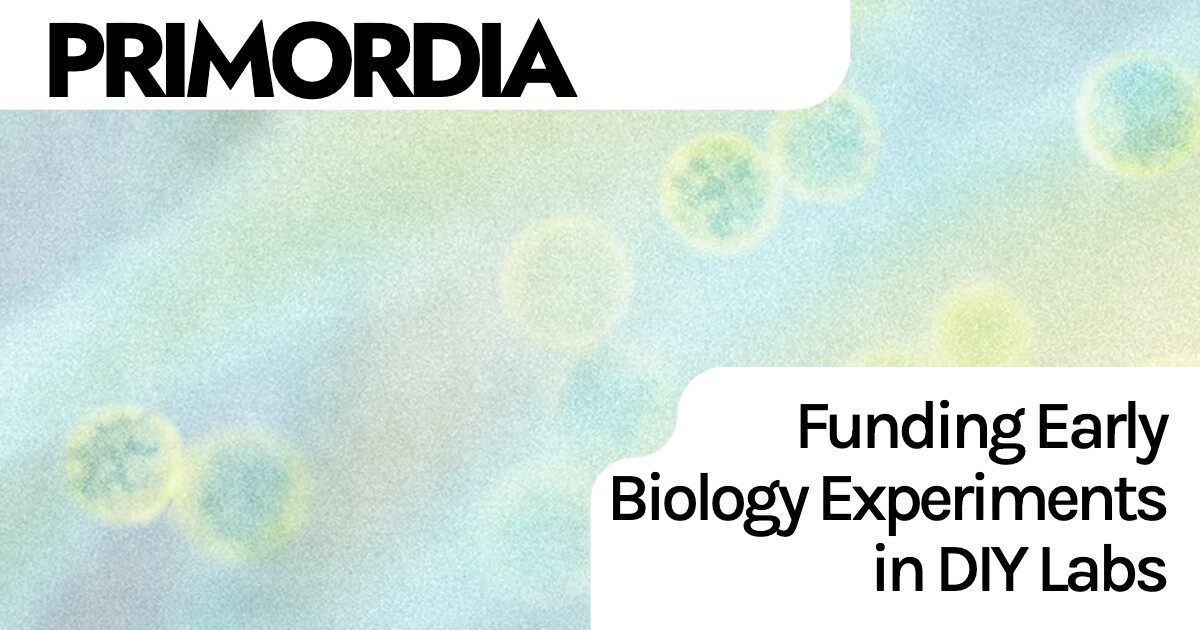
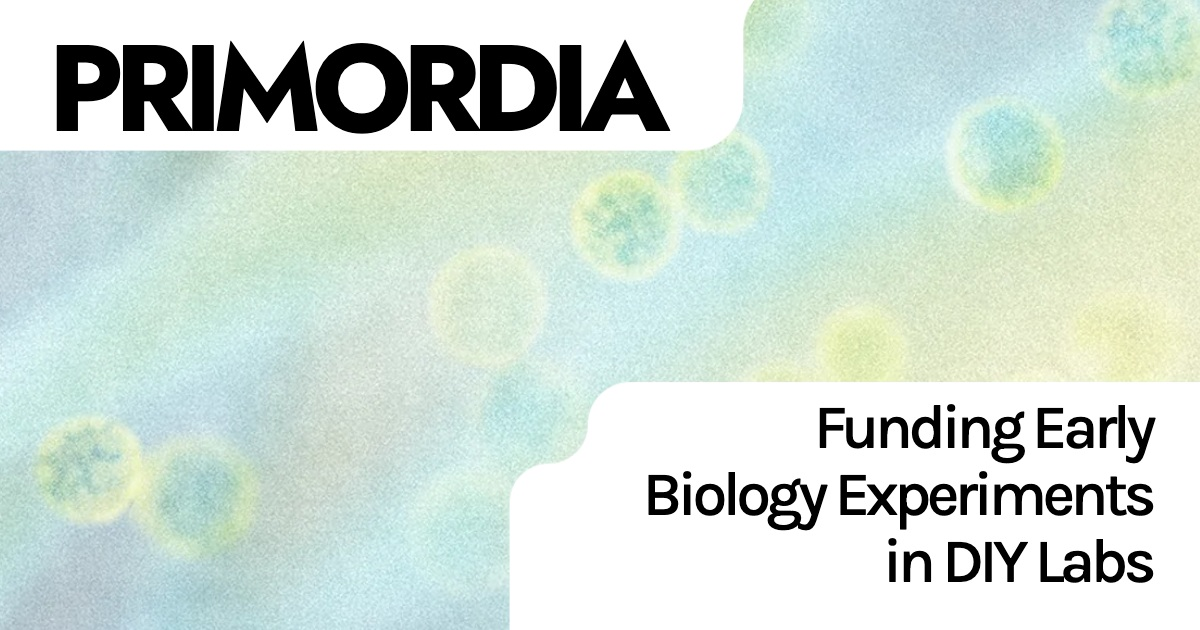
Recompose sharing cards using desktop and mobile hero artwork

diff --git a/tools/social-cards.html b/tools/social-cards.html
@@ -1,0 +1,42 @@
+<!doctype html>
+<html lang="en">
+<head>
+  <meta charset="utf-8">
+  <title>Primordia sharing artwork</title>
+  <link href="https://fonts.googleapis.com/css2?family=Jost:wght@700&family=Karla:wght@500&display=block" rel="stylesheet">
+  <style>
+    * { box-sizing: border-box; }
+    html, body { margin: 0; width: 100%; height: 100%; background: white; }
+    .card { position: relative; width: 1200px; height: 630px; overflow: hidden; color: black; background: white; }
+    .art { position: absolute; width: 1350px; height: auto; left: -85px; top: -20px; }
+    h1, h2 { position: absolute; margin: 0; }
+    /* Preserve the website's wordmark and headline tracking. */
+    h1 { left: 48px; top: 28px; font: 700 122px/1 Jost, sans-serif; letter-spacing: -.08em; white-space: nowrap; }
+    h2 { right: 48px; top: 395px; font: 500 62px/1.08 Karla, sans-serif; letter-spacing: -.07em; text-align: right; }
+    h2 span { display: block; white-space: nowrap; }
+    .square { height: 1200px; }
+    .square .art { width: 1280px; left: -40px; top: -180px; }
+    .square h1 { left: 56px; top: 76px; font-size: 120px; }
+    .square h2 { left: 308px; right: 56px; top: 604px; font-size: 112px; line-height: 1.06; text-align: left; }
+    .x { height: 600px; }
+    .x .art { top: -35px; }
+    .x h1 { top: 20px; font-size: 116px; }
+    .x h2 { top: 375px; font-size: 60px; }
+  </style>
+</head>
+<body>
+  <main class="card" aria-label="Primordia. Funding Early Biology Experiments in DIY Labs">
+    <img class="art" src="../images/primordia_hero_shape.webp" alt="">
+    <h1>PRIMORDIA</h1>
+    <h2><span>Funding Early</span><span>Biology Experiments</span><span>in DIY Labs</span></h2>
+  </main>
+  <script>
+    const format = new URLSearchParams(location.search).get('format') || 'wide';
+    document.querySelector('.card').classList.add(format);
+    if (format === 'square') {
+      document.querySelector('.art').src = '../images/primordia_hero_shape_mobile.webp';
+      document.querySelector('h2').innerHTML = '<span>Funding Early</span><span>Biology</span><span>Experiments</span><span>in DIY Labs</span>';
+    }
+  </script>
+</body>
+</html>
